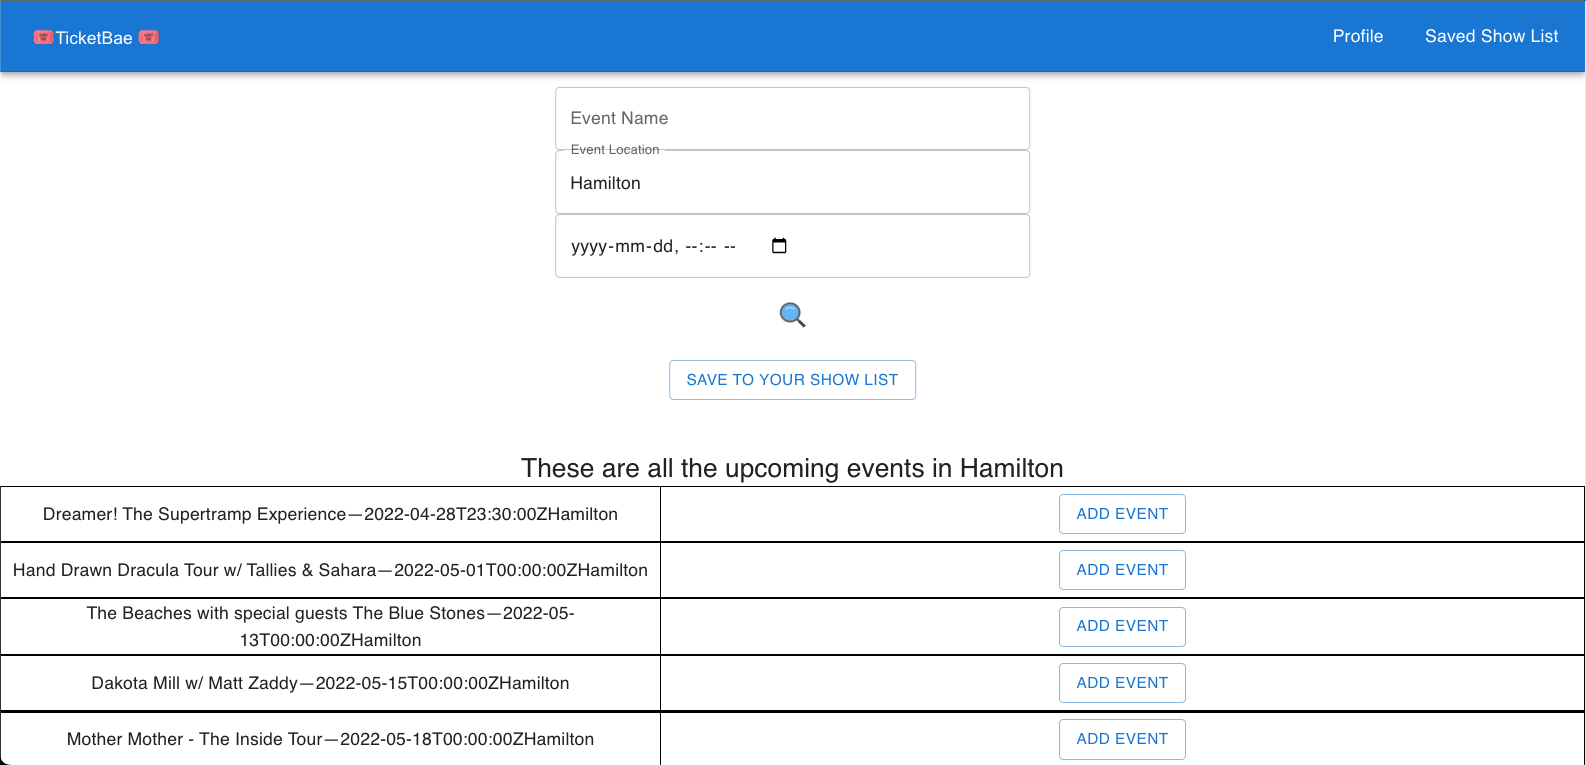
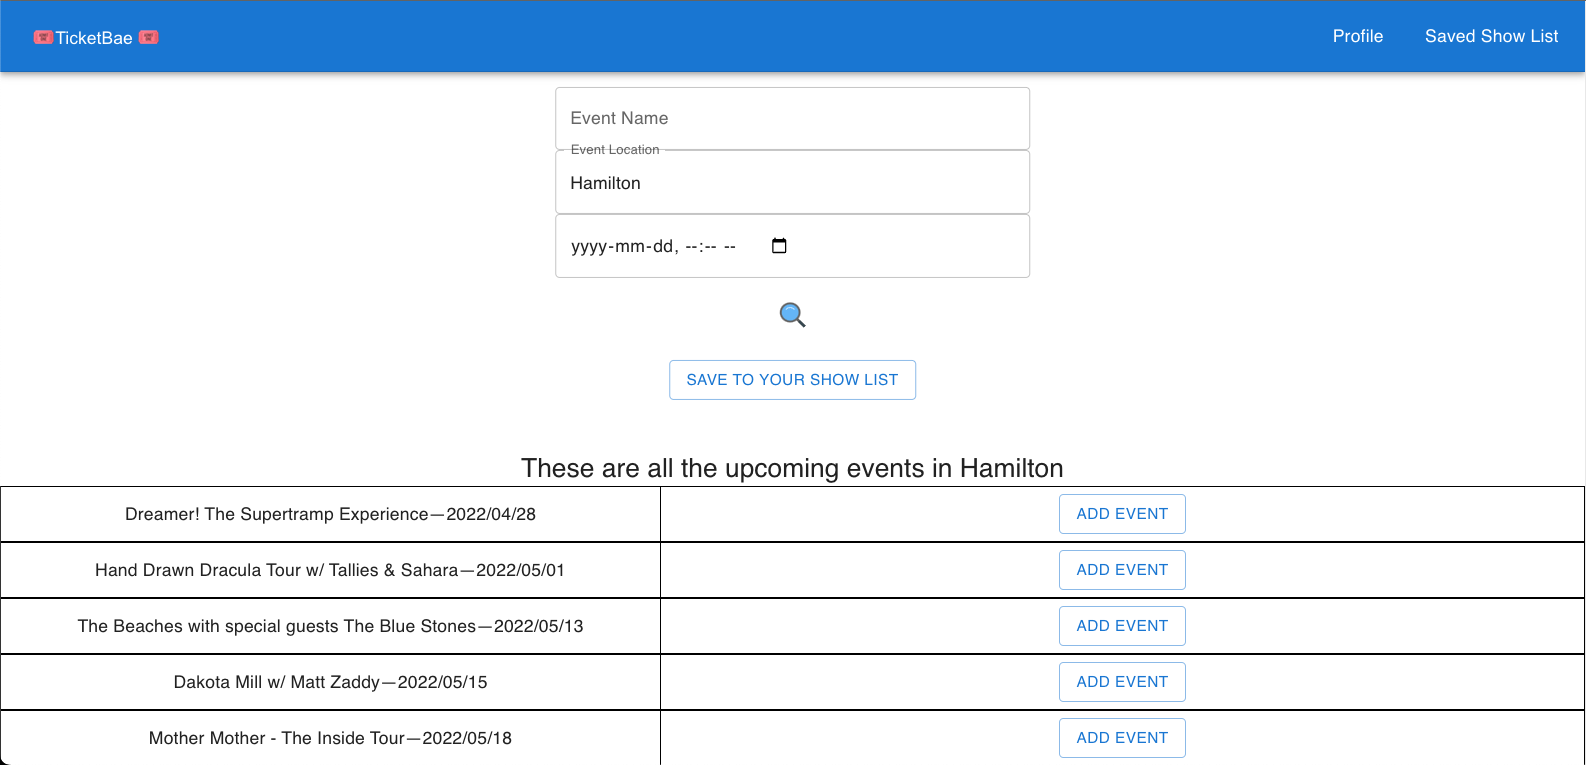
Correct formatting of event search result dates

Changed region(s): [[0.0, 0.7817, 1.0, 1.0], [0.0, 0.7216, 0.4016, 0.7516], [0.0309, 0.6614, 0.4016, 0.6915]]

diff --git a/src/pages/SearchPage/SearchPage.jsx b/src/pages/SearchPage/SearchPage.jsx
@@ -224,6 +224,33 @@ class SearchFeature extends React.Component {
     }
   };
 
+  getDate(d) {
+    let day, month, year, dateSplitted, aux;
+
+    let result = d.match("[0-9]{2}([-/ .])[0-9]{2}[-/ .][0-9]{4}");
+    if (null != result) {
+      dateSplitted = result[0].split(result[1]);
+      day = dateSplitted[0];
+      month = dateSplitted[1];
+      year = dateSplitted[2];
+    }
+    result = d.match("[0-9]{4}([-/ .])[0-9]{2}[-/ .][0-9]{2}");
+    if (null != result) {
+      dateSplitted = result[0].split(result[1]);
+      day = dateSplitted[2];
+      month = dateSplitted[1];
+      year = dateSplitted[0];
+    }
+
+    if (month > 12) {
+      aux = day;
+      day = month;
+      month = aux;
+    }
+
+    return year + "/" + month + "/" + day;
+  }
+
   render() {
     return (
       <div className="wrapper">
@@ -303,7 +330,10 @@ class SearchFeature extends React.Component {
                 <Table>
                   <TableHead>
                     <TableRow>
-                      <td className="td-event">{event}</td>
+                      <td className="td-event">
+                        {event.slice(0, event.indexOf("2"))}
+                        {this.getDate(event)}
+                      </td>
                       <td>
                         <Button
                           variant="outlined"

diff --git a/backend/config/database.js b/backend/config/database.js
@@ -1,12 +1,9 @@
 const mongoose = require("mongoose");
 
-mongoose.connect(
-  "mongodb+srv://sd3kim:1Sharonmichelle@cluster0.et4qd.mongodb.net/ticketbae",
-  {
-    useNewUrlParser: true,
-    useUnifiedTopology: true,
-  }
-);
+mongoose.connect("mongodb://127.0.0.1:27017/ticketbae", {
+  useNewUrlParser: true,
+  useUnifiedTopology: true,
+});
 
 const db = mongoose.connection;
 

diff --git a/src/App.js b/src/App.js
@@ -40,7 +40,6 @@ class App extends React.Component {
             </div>
             <Routes>
               <Route path="/" element={<HomePage />} />
-              {/* <Route path="/allEvents" element={<AllEvents />} /> */}
               <Route
                 path="/profile"
                 element={

diff --git a/README.md b/README.md
@@ -22,8 +22,7 @@ This project was created in collaboration with:
 ![Search Page](./backend/public/images/4.png)
 ![Search Results](./backend/public/images/5.png)
 ![Search Results-2](./backend/public/images/6.png)
-![Search Results-3](./backend/public/images/7.png)
-![Saved Show List Page](./backend/public/images/8.png)
+![Saved Show List Page](./backend/public/images/7.png)
 
 ---
 
